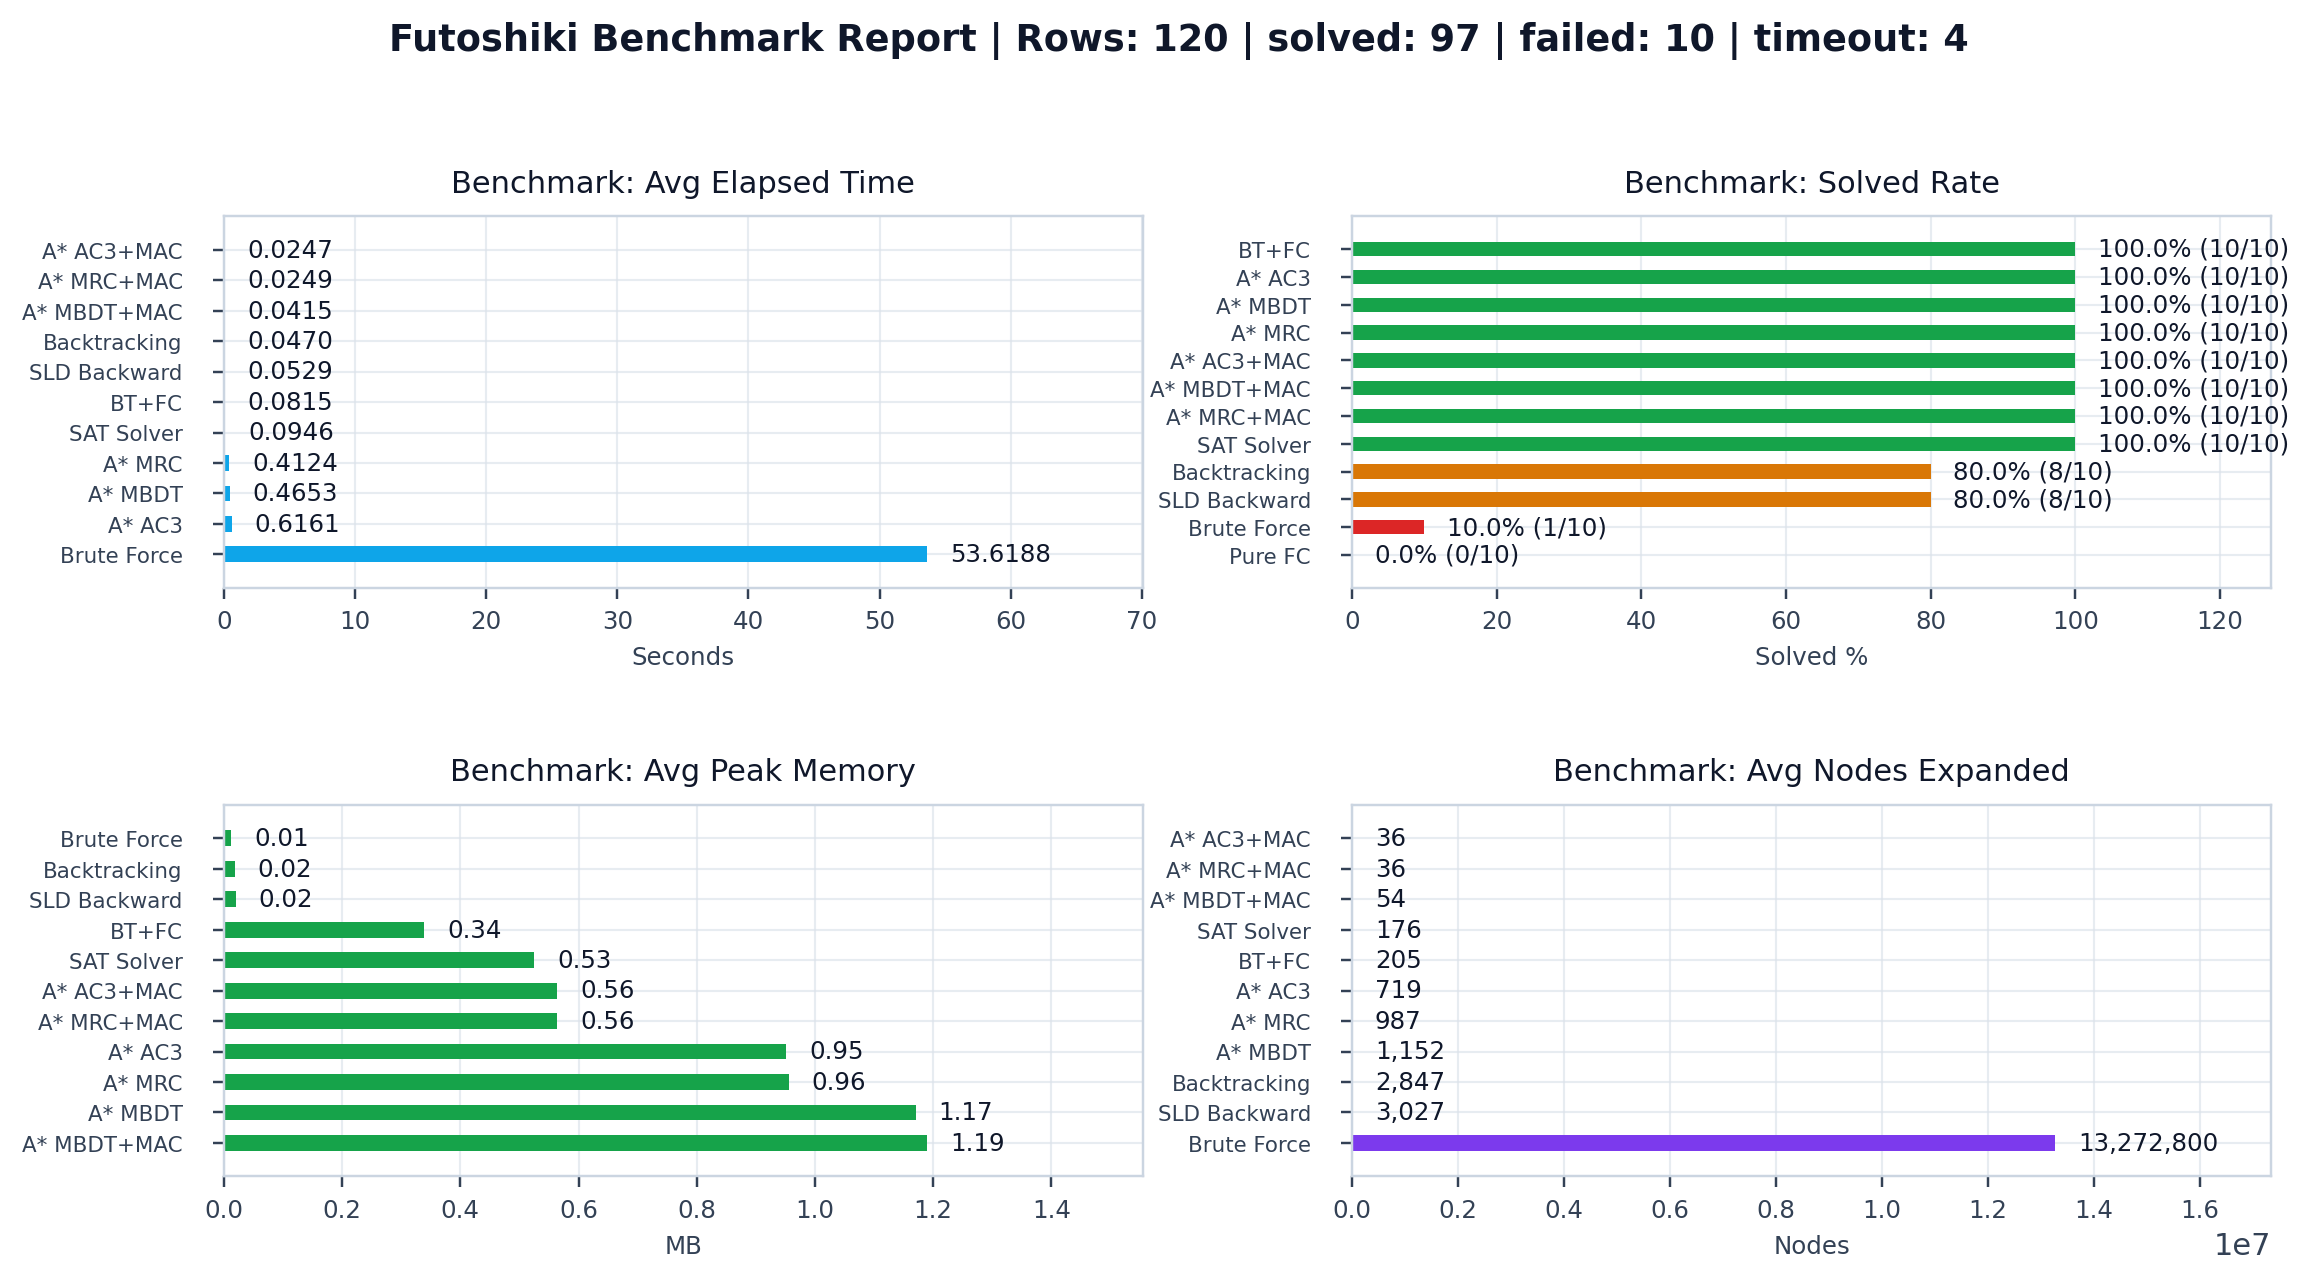
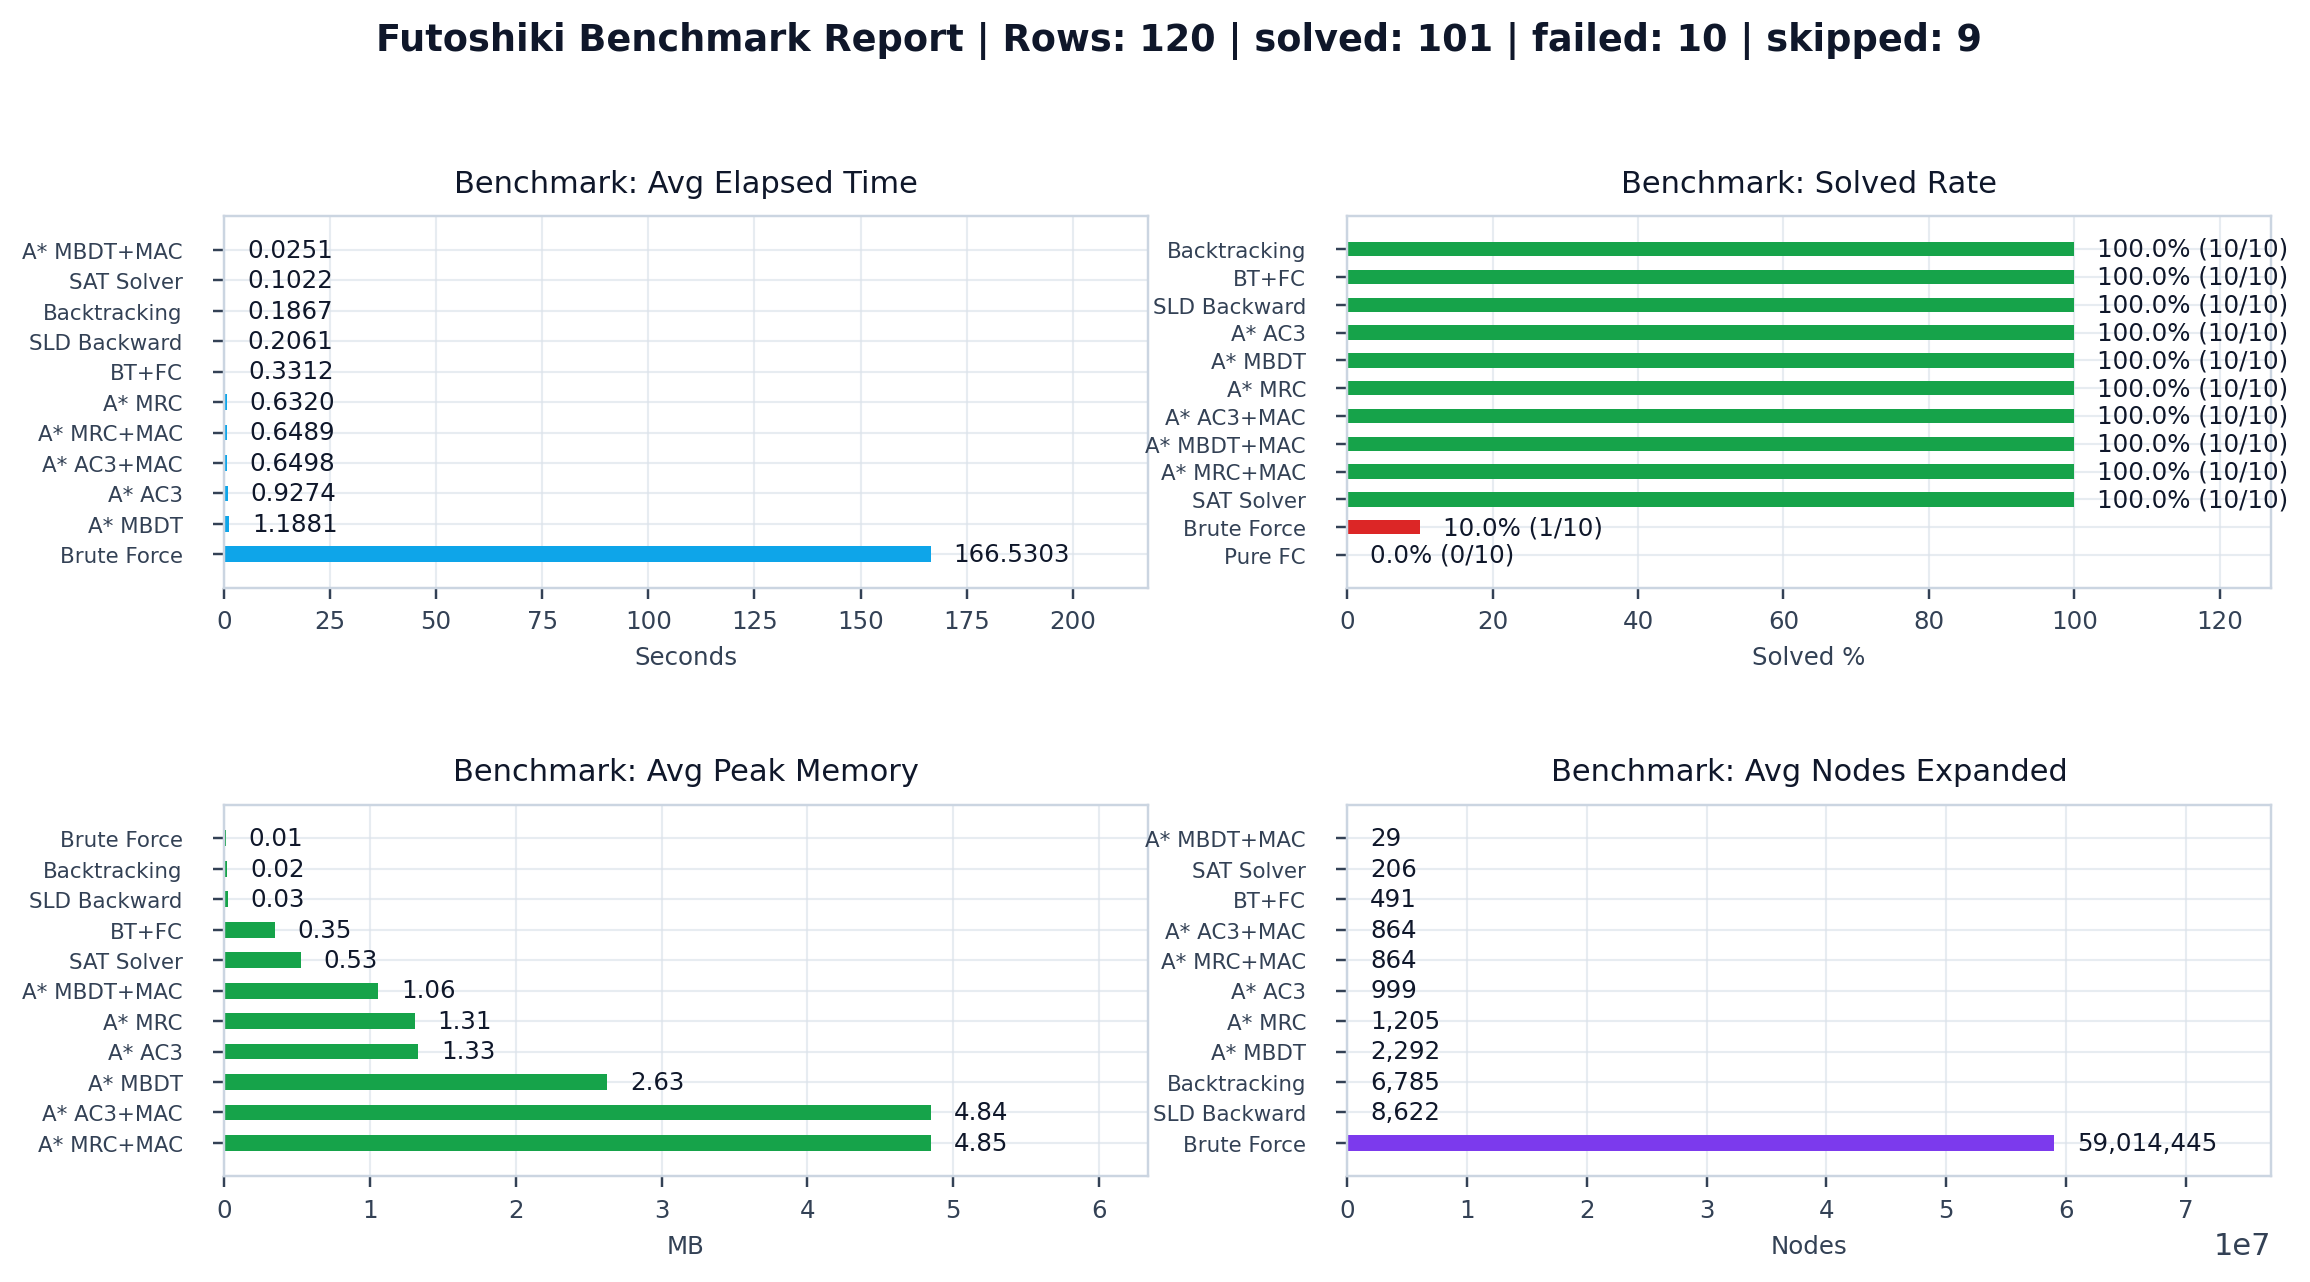
Final fix

diff --git a/Source/benchmark.py b/Source/benchmark.py
@@ -106,7 +106,7 @@ def _stderr_tail(stderr_text):
     return lines[-1]
 
 
-def run_case(payload, timeout_sec=10.0):
+def run_case(payload, timeout_sec=120.0):
     started = time.perf_counter()
     worker_path = BASE_DIR / "benchmark_worker.py"
     command = [
@@ -179,7 +179,7 @@ def run_benchmark(
     include_sat=True,
     include_bruteforce=True,
     bruteforce_input_limit=2,
-    case_timeout_sec=10.0,
+    case_timeout_sec=120.0,
     sat_only=False,
 ):
     OUTPUTS_DIR.mkdir(parents=True, exist_ok=True)
@@ -322,8 +322,8 @@ def parse_args():
         "--case-timeout",
         dest="case_timeout_sec",
         type=float,
-        default=10.0,
-        help="Timeout per algorithm case in seconds (default: 10, 0 disables timeout)",
+        default=120.0,
+        help="Timeout per algorithm case in seconds (default: 120, 0 disables timeout)",
     )
     parser.add_argument(
         "--only-sat",

diff --git a/Source/chart_report.py b/Source/chart_report.py
@@ -661,7 +661,7 @@ class ChartReportController:
             label_max_len=14,
         )
 
-        status_order = ["solved", "failed", "timeout", "error", "unknown"]
+        status_order = ["solved", "failed", "timeout", "skipped", "error", "unknown"]
         status_parts = []
         for key in status_order:
             count = status_totals.get(key, 0)
